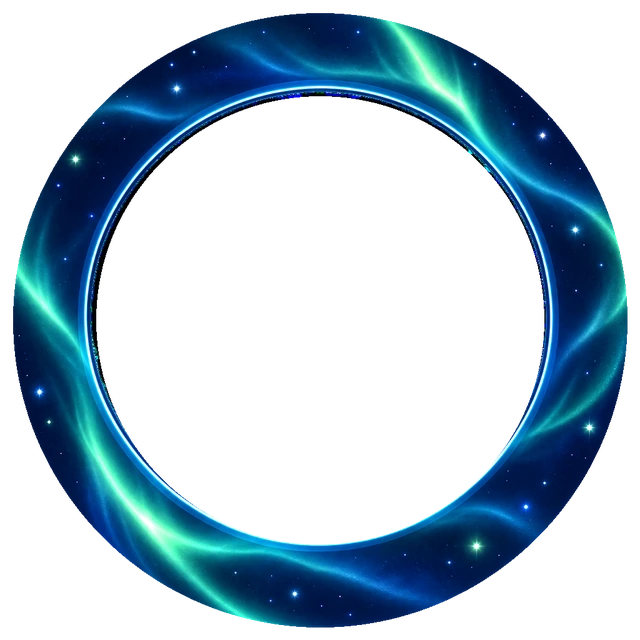
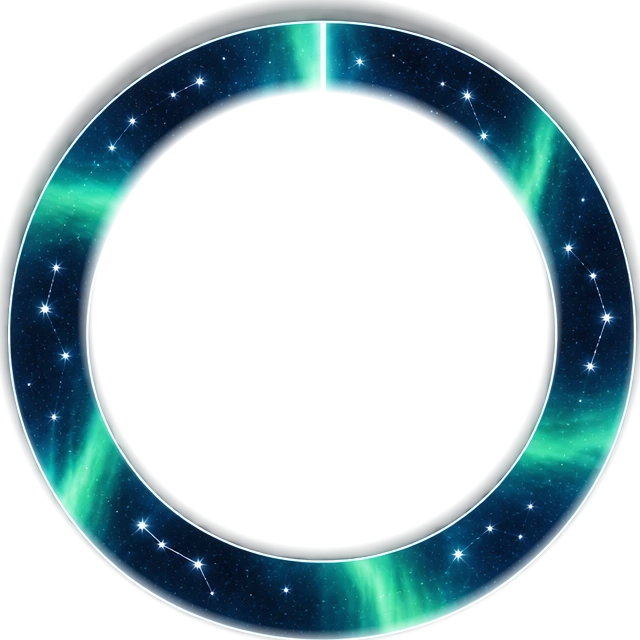
Add files via upload

diff --git a/src/styles.css b/src/styles.css
@@ -5833,3 +5833,22 @@ body.admin-page,.admin-page .app-shell{height:auto;min-height:100%;overflow:visi
 .aurora-ring.active img{filter:saturate(1.00) contrast(1.05) brightness(.99);}
 .aurora-ring.locked{opacity:.94;}
 .aurora-ring.locked img{filter:saturate(.98) contrast(1.04) brightness(.95) hue-rotate(1deg);}
+
+/* Pass 7.26.0 — Aurora Apex calm ring-art revert + larger concentric geometry */
+/* Revert to the calmer three authored ring WebPs. Scale the complete stack up while
+   keeping fixed negative-space lanes between each ring. The outer ring now fills the
+   previously exposed dark outer dial zone instead of sitting inside it. */
+.aurora-ring-outer{width:99%;height:99%;}
+.aurora-ring-middle{width:67%;height:67%;}
+.aurora-ring-inner{width:41%;height:41%;}
+
+/* Preserve the authored artwork without additional procedural ring textures. */
+.aurora-ring::before,.aurora-ring::after{opacity:0!important;}
+.aurora-ring{opacity:.96;filter:drop-shadow(0 6px 9px rgba(0,2,8,.40));}
+.aurora-ring img{opacity:1;filter:saturate(.98) contrast(1.04) brightness(.96);}
+.aurora-ring.tracking{opacity:.91;filter:drop-shadow(0 6px 9px rgba(0,2,8,.38));}
+.aurora-ring.tracking img{filter:saturate(.94) contrast(1.04) brightness(.92);}
+.aurora-ring.active{opacity:1;filter:drop-shadow(0 7px 10px rgba(0,2,8,.44)) drop-shadow(0 0 5px rgba(104,227,233,.10));}
+.aurora-ring.active img{filter:saturate(1.02) contrast(1.05) brightness(1.00);}
+.aurora-ring.locked{opacity:.96;}
+.aurora-ring.locked img{filter:saturate(1.00) contrast(1.04) brightness(.97) hue-rotate(1deg);}

diff --git a/index.html b/index.html
@@ -7,7 +7,7 @@
   <meta name="apple-mobile-web-app-capable" content="yes" />
   <meta name="apple-mobile-web-app-status-bar-style" content="black-translucent" />
   <link rel="manifest" href="./manifest.webmanifest" />
-  <link rel="stylesheet" href="./src/styles.css?v=7.25.0" />
+  <link rel="stylesheet" href="./src/styles.css?v=7.26.0" />
   <title>Silverstone Mission Control</title>
 </head>
 <body>
@@ -40,6 +40,6 @@
       }
     })();
   </script>
-  <script src="./src/main.js?v=7.25.0" defer></script>
+  <script src="./src/main.js?v=7.26.0" defer></script>
 </body>
 </html>

diff --git a/PRODUCTION-AUDIT.md b/PRODUCTION-AUDIT.md
@@ -1,4 +1,4 @@
-# Pass 7.25.0 — Production Audit
+# Pass 7.26.0 — Production Audit
 
 ## Result
 
@@ -6,23 +6,24 @@
 
 ## Production footprint
 
-- `dist/`: **8.053 MiB**
+- `dist/`: **8.064 MiB**
 - Production files: **50**
-- Versus Pass 7.24.0: **+77,689 bytes** (**+75.9 KiB**) with **no file-count change**.
-- The increase comes from the three higher-detail approved Aurora ring WebPs; no duplicate assets were added.
-- No PNG source artwork is deployed; approved source PNGs were converted to WebP production assets only.
+- Versus Pass 7.25.0: **+11,286 bytes** (**+11.0 KiB**) with **no file-count change**.
+- The supplied calmer Aurora ring artworks were production-compressed as WebP without redesigning or remasking them.
+- No duplicate ring assets were added.
 - No WAV/source-master audio is deployed.
 - No test/temp files are deployed.
 - Runtime images remain WebP/SVG and fonts remain WOFF2.
 
 ## Aurora Apex verified
 
-- Current Aurora Apex gameplay, capture timing, Outer/Middle tap capture, Inner hold-to-brake control, mistimed overspin/RGB fault, darker chamber background and overall layout remain unchanged.
-- `aurora-ring-outer.webp`, `aurora-ring-middle.webp` and `aurora-ring-inner.webp` now use the three individually approved ring artworks as separate production assets.
-- Each approved source was converted to its own annulus with fixed geometry so the three rings preserve deliberate dark spacing when nested in the existing concentric wrappers.
-- Legacy procedural ring overlays are disabled for Aurora Apex so the approved ring artwork remains visually intact.
-- All three rings remain visible from the opening frame; the active ring receives only a modest emphasis.
-- No HUD structure, copy, audio, routing or other mission behaviour was changed.
+- Reverted to the three calmer supplied ring artworks for Outer, Middle and Inner.
+- Ring stack geometry is now **Outer 99% / Middle 67% / Inner 41%**.
+- The Outer ring fills the previously exposed dark outer dial zone.
+- Middle and Inner are also scaled up while preserving clear negative-space gaps between each concentric band.
+- Legacy procedural ring overlays remain disabled so the supplied artwork is not visually overwritten.
+- All three rings remain visible from the opening state with only modest active-ring emphasis.
+- Aurora Apex gameplay, capture timing, Inner hold-to-brake control, mistimed overspin/RGB fault, centre core, HUD, audio and route behaviour are unchanged.
 
 ## Automated checks passed
 
@@ -43,7 +44,7 @@
 
 ## Non-blocking warnings
 
-1. **Deployment footprint:** 8.05 MB exceeds the 7 MB audit target, primarily because the full Lapland Launch music track remains intentionally retained.
+1. **Deployment footprint:** 8.06 MB exceeds the 7 MB audit target, primarily because the full Lapland Launch music track remains intentionally retained.
 2. **ELF FM stream:** current Radio Mast URL is still identified as a test stream and should be replaced when the production stream is supplied.
 3. **Web app manifest:** no install icon is defined; normal browser/QR use is unaffected.
 

diff --git a/CHANGELOG.md b/CHANGELOG.md
@@ -693,3 +693,13 @@ This pass adds a self-contained static build for Vercel. No Vercel project-setti
 - Kept all three rings clearly visible from the opening state; the active ring receives only a modest luminance/saturation lift.
 - No copy, HUD structure, audio, route or other mission behaviour was changed.
 - Bumped runtime asset version to 7.25.0.
+
+## Pass 7.26.0 — Aurora Apex calm ring-art revert + larger geometry
+
+- Reverted Aurora Apex to the three calmer supplied ring artworks (`aurora-ring-outer.webp`, `aurora-ring-middle.webp`, `aurora-ring-inner.webp`) production-optimised for deployment with no redesign or remasking.
+- Scaled the complete concentric stack up to **Outer 99% / Middle 67% / Inner 41%**.
+- The Outer ring now fills the previously exposed dark outer dial zone, while fixed dark gaps remain between Outer, Middle and Inner.
+- Increased baseline ring visibility slightly so all three authored artworks remain readable from the opening state, with only modest active-ring emphasis.
+- Legacy procedural ring overlays remain disabled so the supplied artwork renders cleanly.
+- Aurora Apex gameplay, capture timing, mistimed overspin/RGB fault, centre core, HUD, audio and route behaviour are unchanged.
+- Bumped runtime asset version to 7.26.0.
